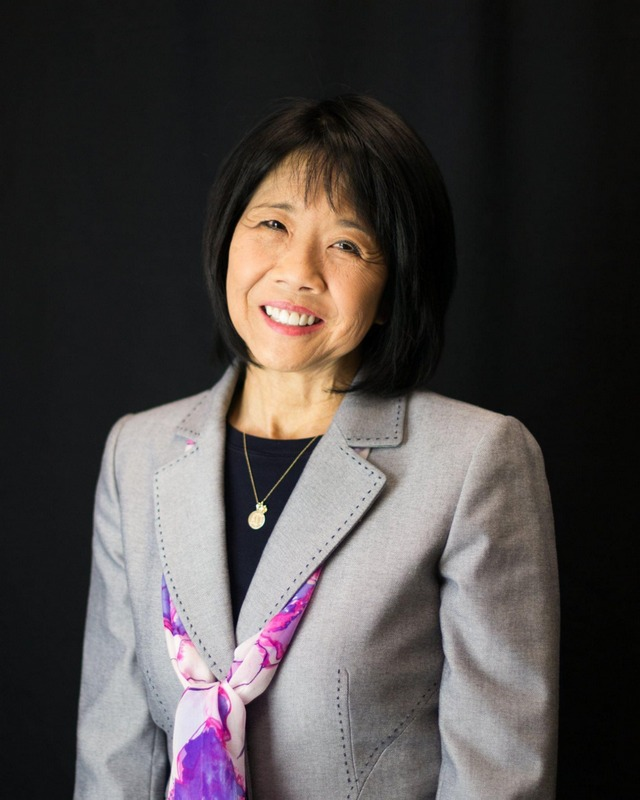
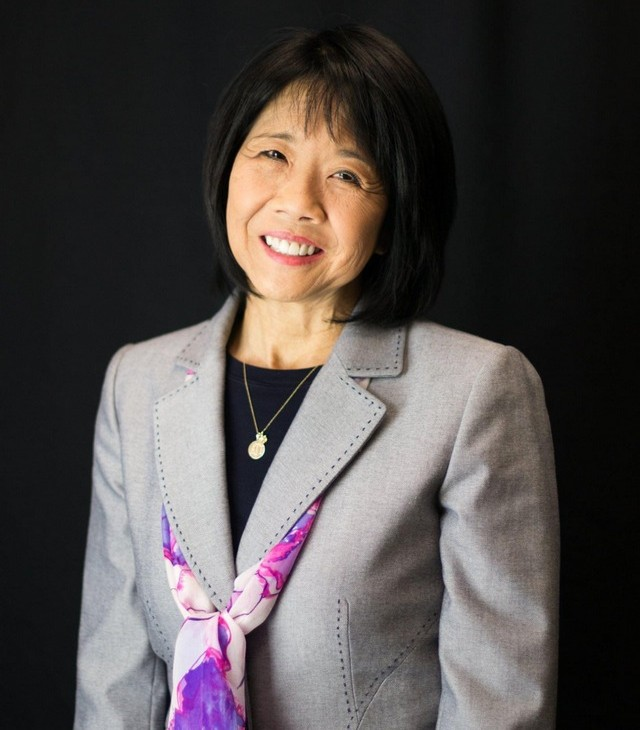
bio photos cropped

diff --git a/home.css b/home.css
@@ -241,10 +241,11 @@ main {
 }
 
 .bio-card img {
-    display: block;
-    width: 100%;
-    height: 180px;
-    object-fit: cover;
+  display: block;
+  width: 100%;
+  height: auto; /* let aspect-ratio control height */
+  aspect-ratio: 3 / 4; /* portrait orientation (w:h) */
+  object-fit: cover;
 }
 
 .emily-photo {
